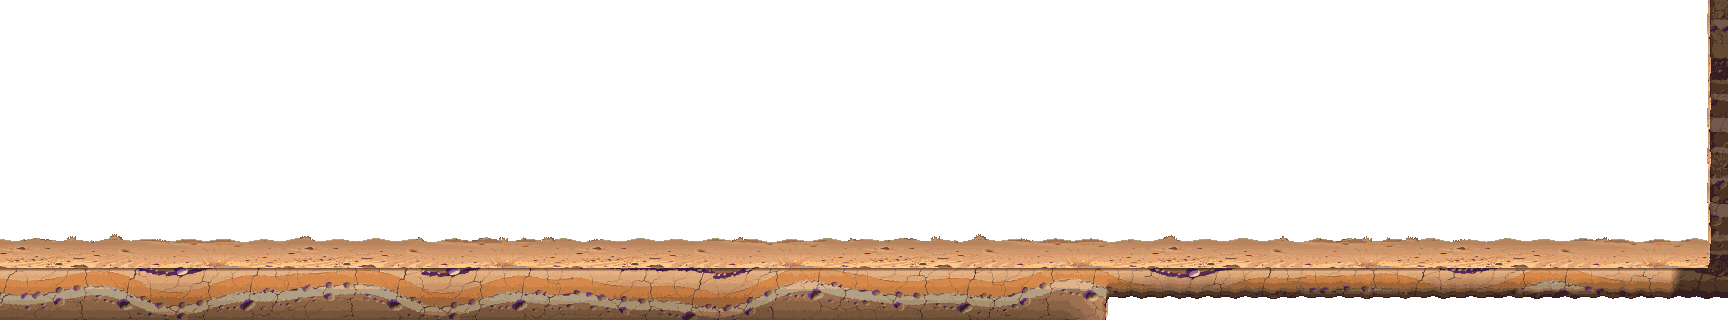
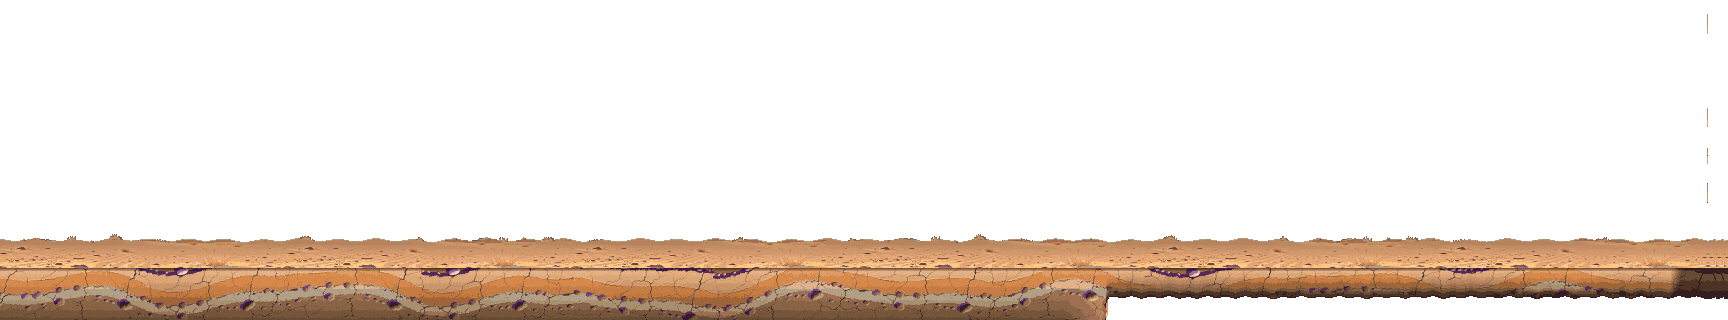
Village: the east-edge wall look removed (edge palm occluder, painted rock column), the invisible edge kept (D944)
Claude-Session: https://claude.ai/code/session_01Pra1eqG3HRYK3FEoBcvCSk

Changed region(s): [[0.9688, 0.0, 1.0, 0.875]]

diff --git a/design/figma_decision_register.md b/design/figma_decision_register.md
@@ -1093,3 +1093,4 @@ The end screen is drawn in Figma first (#54's "demo end screen", Claude draws). 
 | D941 | OVERRIDE (Sapega 29.10, answers O14) | **The menu's World Map has two levels: the world, then a location's rooms** (Sapega picked «обидва рівні: мапа світу, а клацнеш на локацію — її кімнати»). Level 1: the illustrated world map (`menu_map_background.jpg`) with the locations as pins/cards (D458: name, «Explored N% · Chests · Secrets»); no MetSys grid drawn over the art. Level 2: choosing a location (click / A) opens its MetSys rooms — explored rooms readable, unexplored hidden or faint, the hero's room marked, the room names shown (same readability rules as B236 for the M map). Builds on `metsys_map_component.gd` (level 1 / level 2 already exist in part, D458); B227 (empty canyon level 2) must be fixed first. **Not built.** |
 | D942 | OVERRIDE (Sapega 29.10, answers O1, O2, O5, O6, O7) | **Parked UI observations decided.** **O1 — yes:** a party member without portrait art shows one shared silhouette placeholder (same frame, same tint for all), never a flat colour square or an empty black one. **O2 — yes:** party / character names follow the UI language (English names in English, Ukrainian in Ukrainian) through the translation files, like the rest of the text. **O6 — yes:** save-slot dates are `23.09.2026 00:05` in Ukrainian and `2026-09-23 00:05` in English. **O7 — no:** the confirm modal keeps «Yes / No» and its current default focus. **O5 — no:** the slot card's text stays all white. O1, O2, O6 **not built** (BACKLOG); O5, O7 closed as is. |
 | D943 | OVERRIDE (Sapega 29.10, answers Q128) | **The developer menu is in every build for now** («поки у всіх, а там розберемось»): opens on F10 in the editor, debug and release exe alike; one `AppConfig` flag turns it off before a public release (to be decided later). [[dev_menu_plan]] slice 1 is unblocked. **✅ Built, slice 1** (29.10): `UI/Components/dev_menu.tscn/.gd` in `Game.tscn` `UICanvas`, raw F10 (no `project.godot` action), pauses the game; +100 / +1000 gold, `Player.dev_god`, Full HP; `dev_menu.ENABLED` is the release switch; `verify_dev_menu`, `design/shots/dev_menu.png`. **Slice 2 amended (Sapega 29.10: «урон ×N не треба, скоріше рівень ×N»):** +1 / +5 / +10 levels through `XPManager`, no damage multiplier. |
+| D944 | OVERRIDE (Sapega 29.10, playtest) | **The Village's east wall goes; the invisible edge stays** («в селищі можна прибрати стіну, але не пускати далі»). What read as a wall at the east edge was the front palm `FrontDark/OccluderPalm2` (x 3040, ×7.15, its trunk parked on the room edge at the camera limit) plus a 30 px rock column painted into `Terrain/Village_Terrain.png` (art x 1708–1727). **✅ Built** (29.10): the palm removed, the painted column cleared above the floor and the floor carried on to the edge; the hidden `TileMap/Foreground` column (x 80) still stops the hero at x ≈ 2548. Trap: `paint_terrain.py` paints rock wherever the collision mask is solid, so a re-run would paint the column back — mask the boundary column out first. Shot `design/shots/village_east_edge.png`. |
